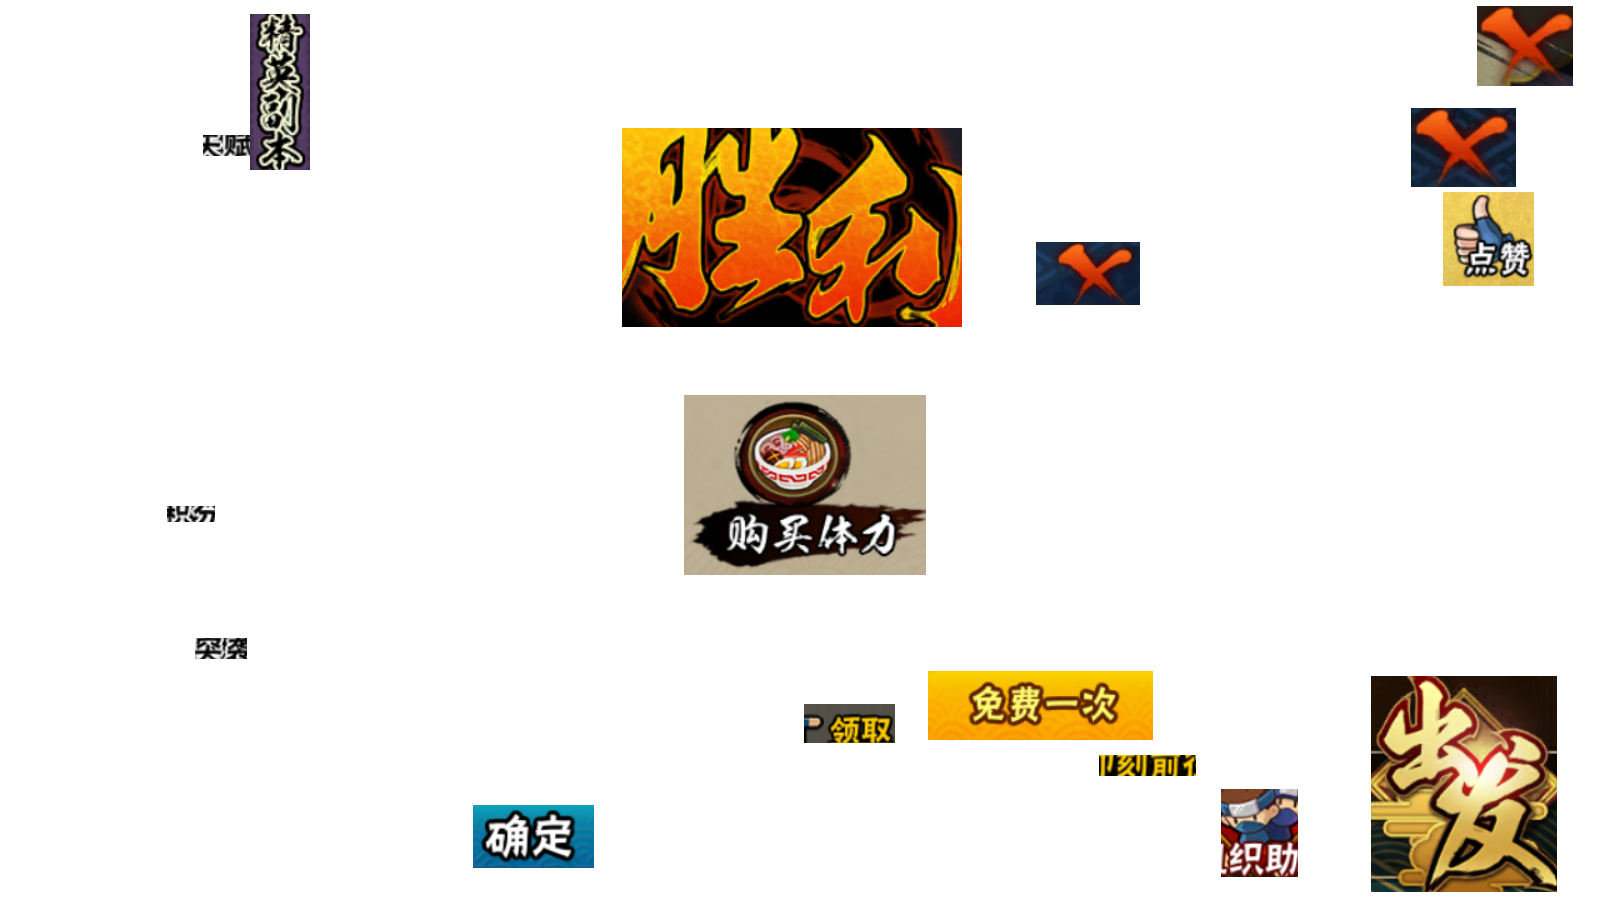
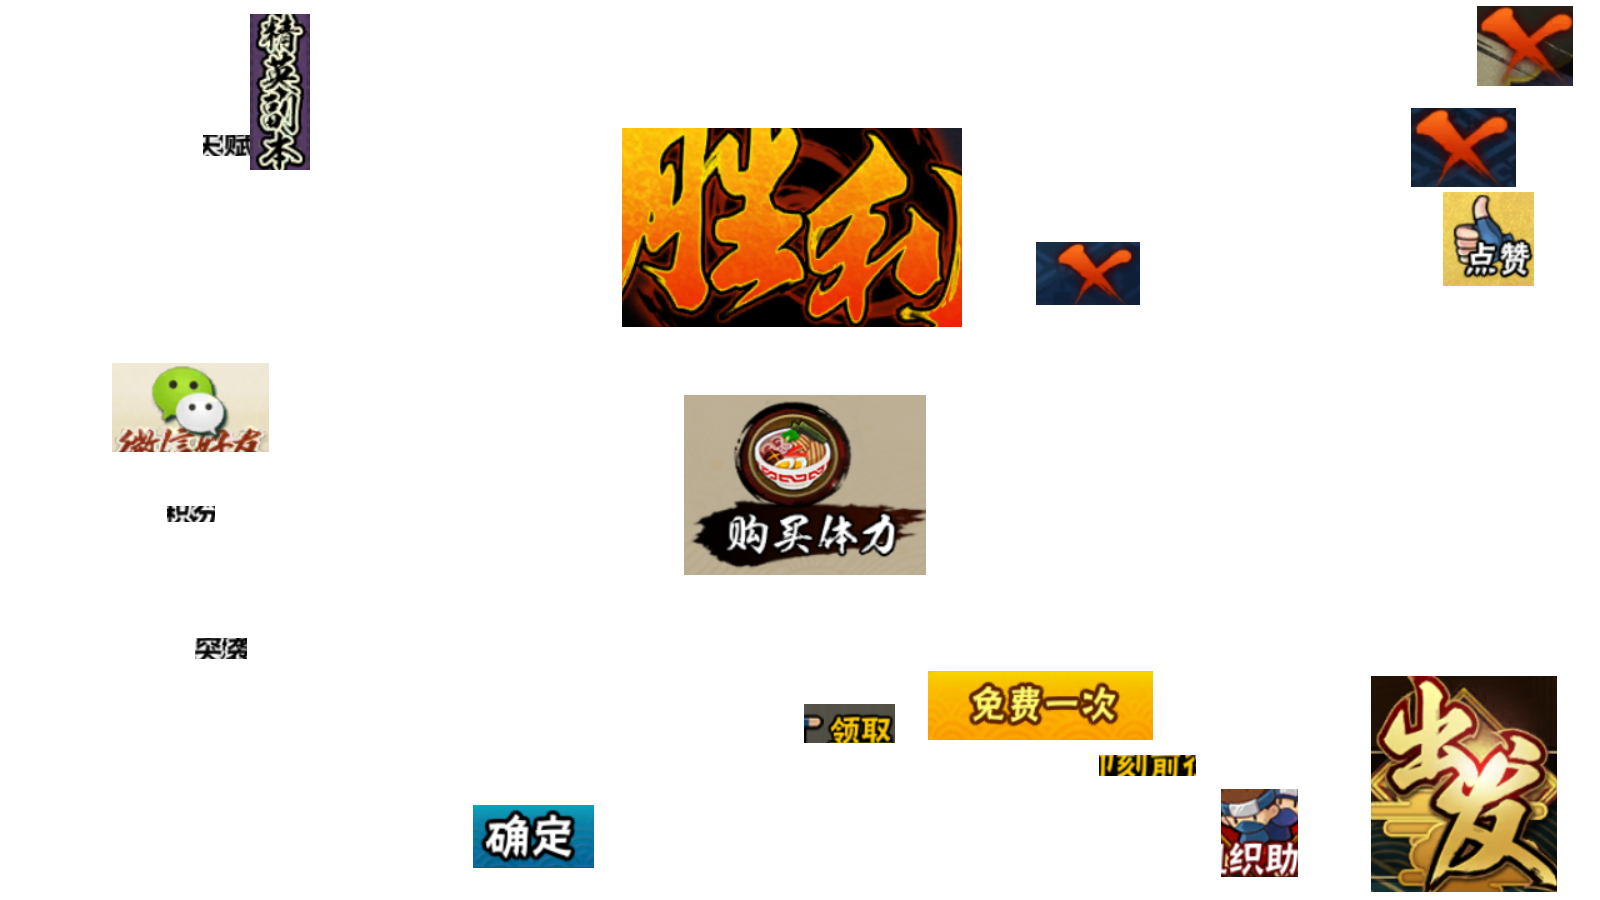
修复任务集会所领奖后接取失败、白重试一轮的问题 修复任务集会所误报「接取成功」、实际没接到的问题 领取好友体力支持微信好友 启动超时的提示更明确了（MuMu 的「应用保活」会导致原生截图不可用）

Changed region(s): [[0.0625, 0.4044, 0.1875, 0.5289]]

diff --git a/src/tasks/mission_task.py b/src/tasks/mission_task.py
@@ -17,6 +17,11 @@ ACCEPT_ATTEMPTS = 3
 # 一轮里最多尝试接取几个任务
 MAX_ACCEPT_LOOP = 15
 
+# 点完「出发」后先等这么久，确认 mission_go 真的消失了（用户指定 1 秒）
+# 游戏偶尔点了没反应，不验证就会误报成功接取 1 个。
+ACCEPT_VERIFY_WAIT = 1.0
+ACCEPT_RETURN_WAIT = 0.8   # 确认消失后再等这么久，让它走完切屏
+
 # ---------------------------------------------------------------------------
 # 领奖励（用户指定的流程）
 #
@@ -132,6 +137,13 @@ class MissionTask(GuideNavTask):
             if self.click_ocr_text(CONFIRM_TEXT, time_out=CONFIRM_TIMEOUT):
                 self.log_info("[领奖] 点击了「确定」（一键领取所有奖励）")
                 self.sleep(CONFIRM_WAIT)
+                # ⚠ 确定之后会弹**物品展示界面**，必须关掉它：
+                # 否则它会挡住后面的「接取」——接取点在这个界面上，
+                # 后面等不到「出发」就判失败，白重进一轮。
+                # 关闭位置和"直接弹展示界面"那种情况一样，用右上角 CLOSE_REL。
+                self.log_info(f"[领奖] 关掉物品展示界面 rel{CLOSE_REL}")
+                self.click_relative(*CLOSE_REL)
+                self.sleep(CLOSE_WAIT)
                 continue
 
             # B. 没有确认框但画面变了 -> 直接弹了物品展示界面，点右上角关掉
@@ -231,7 +243,16 @@ class MissionTask(GuideNavTask):
                 pass
             return FAILED
 
-        self.sleep(1.8)  # 等待出发与返回
+        # 点完「出发」等 1 秒，确认它真的消失了（用户指定）
+        # 游戏偶尔会"点了没反应"——那时候 mission_go 还在画面上，
+        # 如果直接当成成功，后面就会误报"成功接取 1 个"。
+        self.sleep(ACCEPT_VERIFY_WAIT)
+        if self.find_one('mission_go', threshold=0.8):
+            self.log_warning("点了「出发」但它还在画面上 —— 这一下没生效，"
+                             "判定接取失败")
+            return FAILED
+
+        self.sleep(ACCEPT_RETURN_WAIT)  # 等出发返回
         return ACCEPTED
 
     # ---------------- 通用工具方法 ----------------

diff --git a/src/tasks/friend_task.py b/src/tasks/friend_task.py
@@ -41,8 +41,11 @@ class FriendTask(PageNavTask):
         # ========== 第二阶段：QQ 好友 ==========
         self.sleep(1.0)
 
-        if not self.wait_click('friend_qqfriend', threshold=0.8, time_out=5):
-            self.log_error("未找到 QQ 好友标签")
+        # 好友来源可能是 QQ，也可能是微信 —— 两个标签页都试，先 QQ 再微信
+        if not (self.wait_click('friend_qqfriend', threshold=0.8, time_out=3)
+                or self.wait_click('friend_wechatfriend', threshold=0.8,
+                                   time_out=5)):
+            self.log_error("未找到好友标签（QQ / 微信都没找到）")
             self._exit()
             return
         self.sleep(1.0)

diff --git a/src/mumu_compat.py b/src/mumu_compat.py
@@ -346,8 +346,9 @@ def _patch_keep_alive_check():
         value = deep_get(data, keys='customer.app_keptlive', default=None)
         if str(value).lower() == 'true':
             logger.error(
-                '请在 MuMu 模拟器设置里关闭「后台挂机时保活运行」'
+                '请在 MuMu 模拟器设置 →「其他」里关闭「应用保活」'
                 '（Please turn off "Keep alive in the background"）')
+            + '；或把截图方式改成「ADB截图」'
             raise Exception(
                 'Please turn off enable background keep alive in MuMuPlayer settings')
         return True

diff --git a/src/config.py b/src/config.py
@@ -3,7 +3,7 @@ import os
 import numpy as np
 from ok import ConfigOption
 
-version = "v0.1.19"
+version = "v0.1.20"
 #不需要修改version, Github Action打包会自动修改
 
 app_profile = os.environ.get("PYAPPIFY_APP_PROFILE", "")

diff --git a/README.md b/README.md
@@ -185,6 +185,18 @@
    滑不动时还会再用**更慢的一档**补救一次。
    如果仍然滑不动，请把日志发出来 —— 里面有手势坐标和「滑动出问题」的记录。
 
+9. **启动时一直转圈、最后报「Start game timeout!」**
+
+   最常见的原因是 **MuMu 开了「应用保活」**：程序默认用「原生」截图（走 MuMu 的原生接口），
+   而这个设置会让那个接口不可用 —— 取不到画面就一直等到超时。
+
+   两个办法任选一个：
+
+   - MuMu 设置 →「其他」→ 把「应用保活」**关掉** → 重启模拟器（推荐：保留原生截图，速度最快）
+   - 程序界面 → 截图方式 → 改成「ADB截图」（不用改模拟器设置，立刻就能用）
+
+   如果改了还是超时，再看**分辨率**是不是 16:9（推荐 1600×900）—— 不是 16:9 同样会启动失败。
+
 ## 💻 开发者专区
 
 ### 从源码运行
